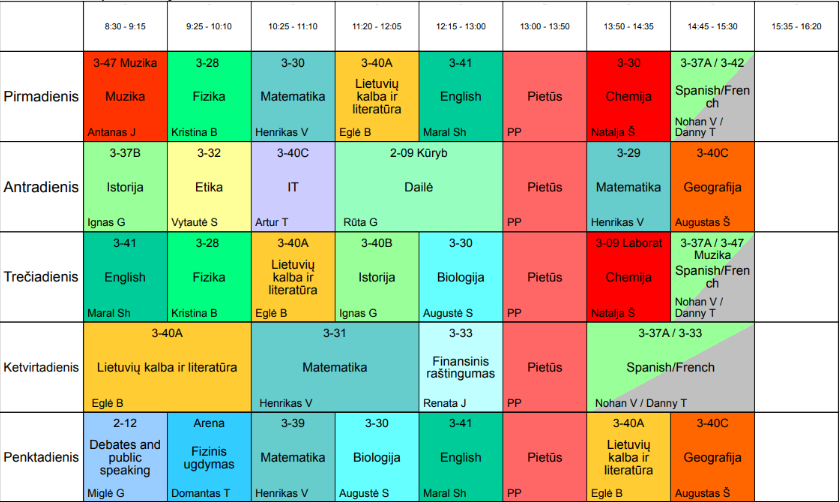
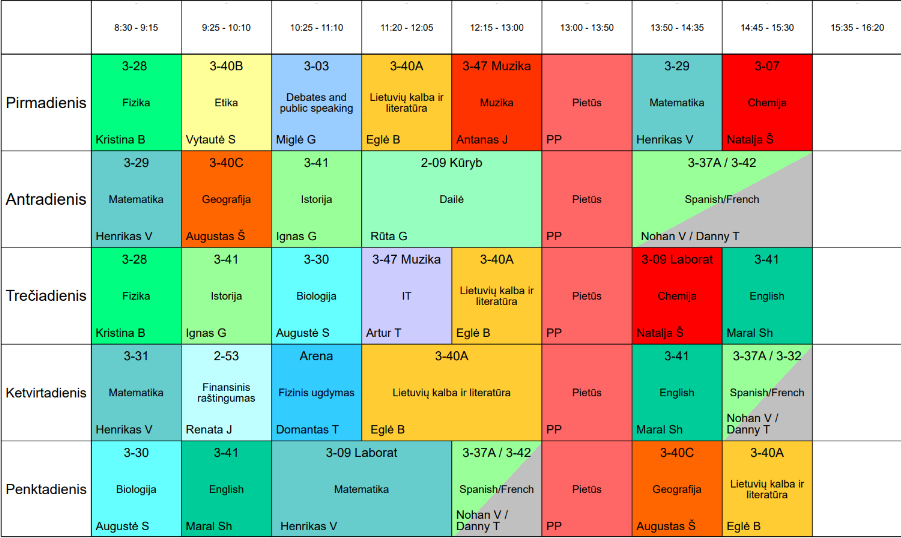
Tvarkarastis update

diff --git a/oskaras.html b/oskaras.html
@@ -1,0 +1,10 @@
+<!DOCTYPE html>
+<html lang="en">
+<head>
+    <meta charset="UTF-8">
+    <title>Oskaras</title>
+</head>
+<body>
+<h1>Labas Oskarai.</h1>
+</body>
+</html>
